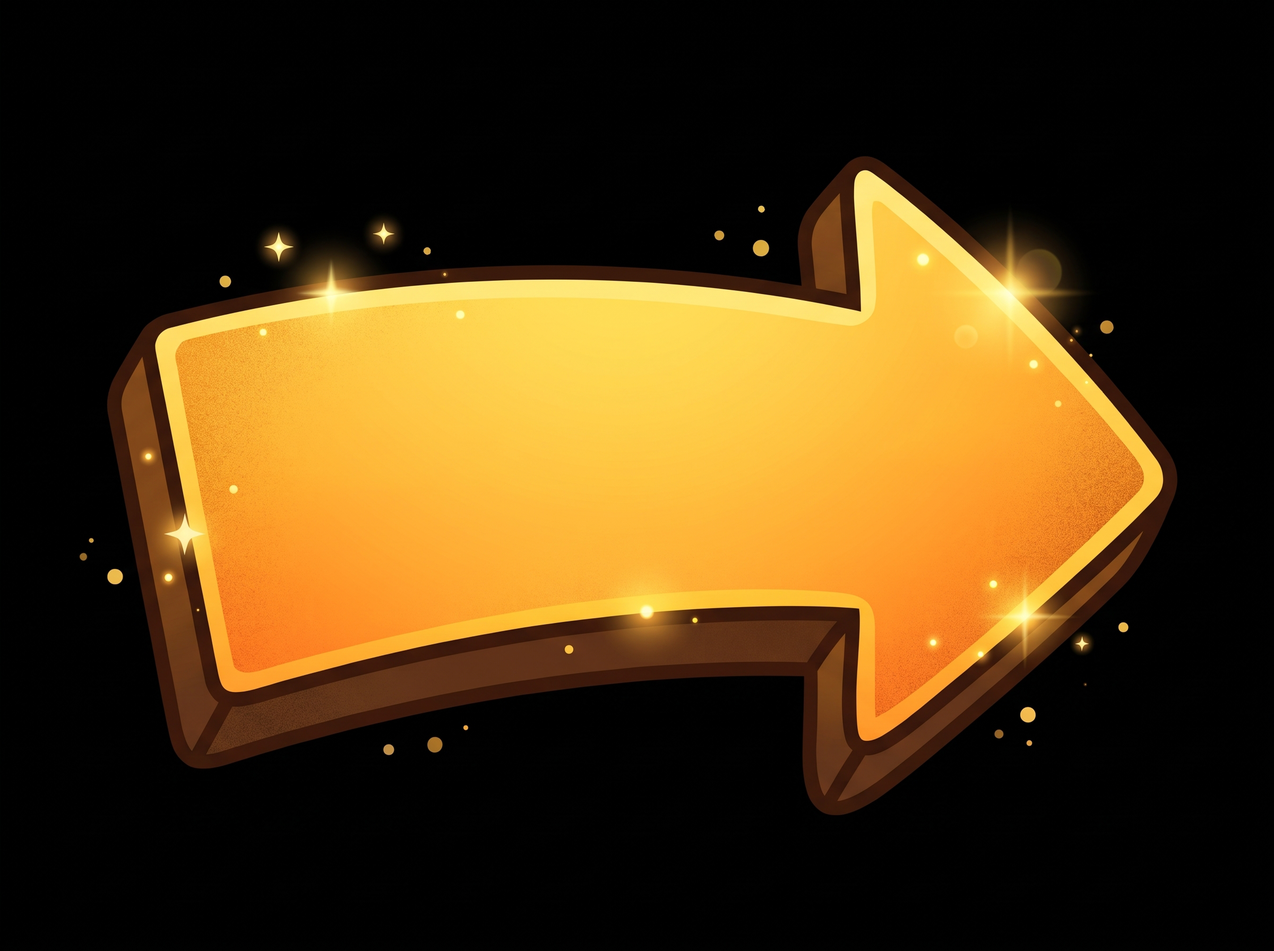
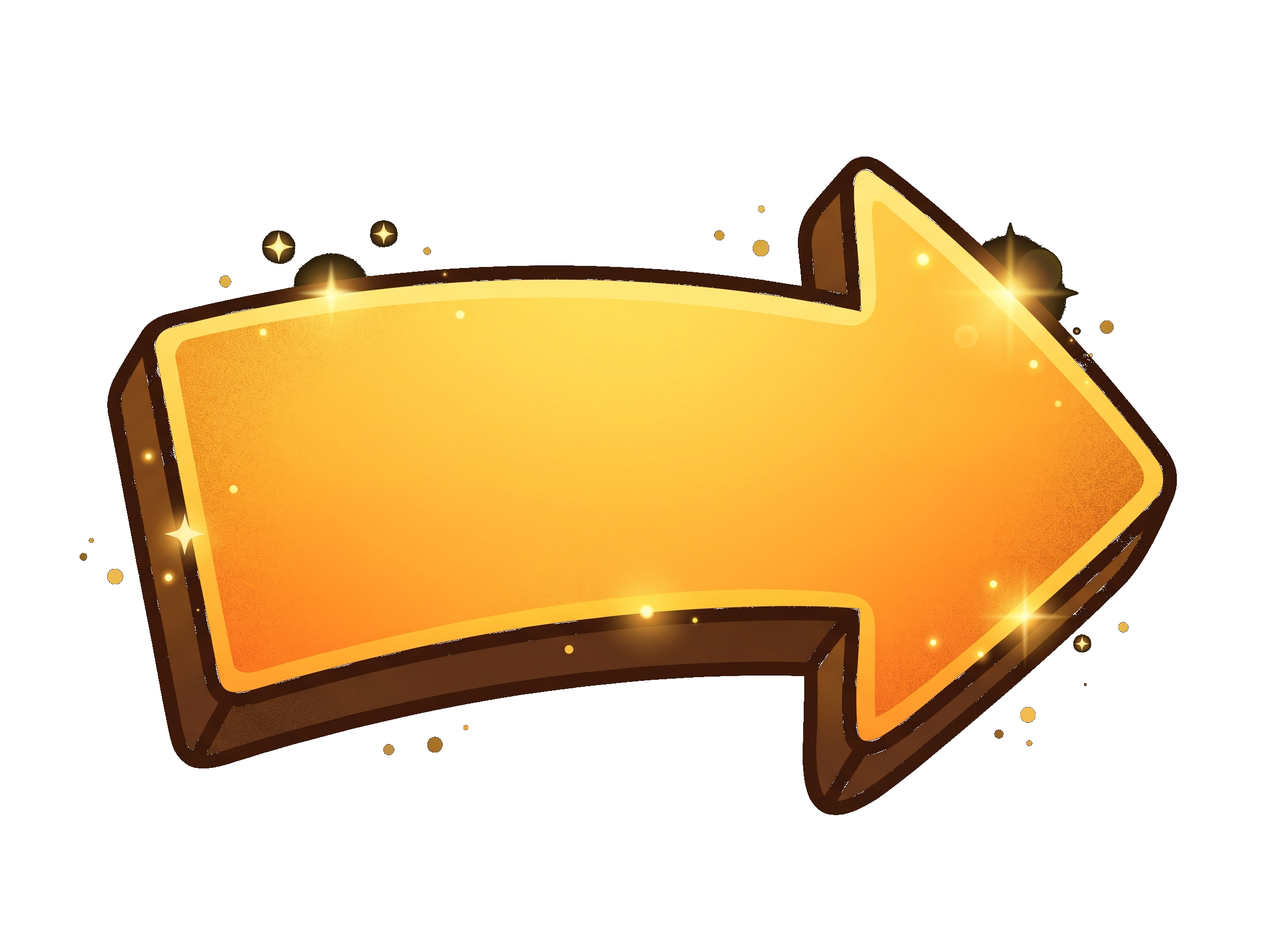
Add files via upload

diff --git a/index.html b/index.html
@@ -33,54 +33,54 @@
       <section id="location-screen" class="screen hidden" data-location="">
         <div id="objects-layer" class="objects-layer">
           <button id="dog" class="scene-object scene-object--dog" type="button" aria-label="Поговорити з песиком">
-            <img class="character-body park-sprite" src="assets/images/dog-body.png" alt="Песик у парку" draggable="false" />
-            <img class="dog-tongue-layer park-sprite" src="assets/images/dog-tongue.png" alt="" aria-hidden="true" draggable="false" />
+            <img class="character-body park-sprite" src="dog-body.png" alt="Песик у парку" draggable="false" />
+            <img class="dog-tongue-layer park-sprite" src="dog-tongue.png" alt="" aria-hidden="true" draggable="false" />
             <span class="dog-blink-eye dog-blink-eye--left park-sprite" aria-hidden="true"></span>
             <span class="dog-blink-eye dog-blink-eye--right park-sprite" aria-hidden="true"></span>
-            <img class="forest-sprite" src="assets/images/dog.png" alt="Песик у казковому лісі" draggable="false" />
+            <img class="forest-sprite" src="dog.png" alt="Песик у казковому лісі" draggable="false" />
           </button>
           <div id="dog-drop-zone" class="dog-drop-zone scene1-object" aria-hidden="true"></div>
           <button id="girl" class="scene-object scene-object--girl character-breathe-idle" type="button" aria-label="Привітатися з дівчинкою">
-            <img class="character-body park-sprite" src="assets/images/girl-body.png" alt="Усміхнена дівчинка махає рукою" draggable="false" />
-            <img class="character-smile park-sprite" src="assets/images/girl-smile.png" alt="" aria-hidden="true" draggable="false" />
+            <img class="character-body park-sprite" src="girl-body.png" alt="Усміхнена дівчинка махає рукою" draggable="false" />
+            <img class="character-smile park-sprite" src="girl-smile.png" alt="" aria-hidden="true" draggable="false" />
             <span class="wave-arm-pivot park-sprite" style="--pivot-x: 42%; --pivot-y: 33%">
-              <img src="assets/images/girl-arm.png" alt="" aria-hidden="true" draggable="false" />
+              <img src="girl-arm.png" alt="" aria-hidden="true" draggable="false" />
             </span>
-            <img class="forest-sprite" src="assets/images/girl.png" data-hands-up-src="assets/images/girl.png" data-hands-down-src="assets/images/girl_hands_down.png" alt="Дівчинка у казковому лісі" draggable="false" />
+            <img class="forest-sprite" src="girl.png" data-hands-up-src="girl.png" data-hands-down-src="girl_hands_down.png" alt="Дівчинка у казковому лісі" draggable="false" />
           </button>
           <button id="boy" class="scene-object scene-object--boy character-breathe-idle" type="button" aria-label="Привітатися з хлопчиком">
-            <img class="character-body park-sprite" src="assets/images/boy-body.png" alt="Усміхнений хлопчик махає рукою" draggable="false" />
-            <img class="character-smile park-sprite" src="assets/images/boy-smile.png" alt="" aria-hidden="true" draggable="false" />
+            <img class="character-body park-sprite" src="boy-body.png" alt="Усміхнений хлопчик махає рукою" draggable="false" />
+            <img class="character-smile park-sprite" src="boy-smile.png" alt="" aria-hidden="true" draggable="false" />
             <span class="wave-arm-pivot park-sprite" style="--pivot-x: 57.5%; --pivot-y: 36.8%">
-              <img src="assets/images/boy-arm.png" alt="" aria-hidden="true" draggable="false" />
+              <img src="boy-arm.png" alt="" aria-hidden="true" draggable="false" />
             </span>
-            <img class="forest-sprite" src="assets/images/boy.png" data-hands-up-src="assets/images/boy.png" data-hands-down-src="assets/images/boy_hands_down.png" alt="Хлопчик у казковому лісі" draggable="false" />
+            <img class="forest-sprite" src="boy.png" data-hands-up-src="boy.png" data-hands-down-src="boy_hands_down.png" alt="Хлопчик у казковому лісі" draggable="false" />
           </button>
           <button id="scene-ball" class="scene-object scene1-object scene-object--ball" type="button" aria-label="Перетягнути м'ячик до песика">
-            <img src="assets/images/ball.png" alt="Червоний і жовтий м'ячик" draggable="false" />
+            <img src="ball.png" alt="Червоний і жовтий м'ячик" draggable="false" />
           </button>
           <span class="ball-foliage scene1-object" aria-hidden="true"></span>
           <button id="scene-key" class="scene-object scene1-object scene-object--key" type="button" aria-label="Зібрати частину чарівного ключа">
-            <img src="assets/images/key_part_2.png" alt="Золота частина чарівного ключа" draggable="false" />
+            <img src="key_part_2.png" alt="Золота частина чарівного ключа" draggable="false" />
           </button>
 
-          <img id="forest-crown-visual" class="forest-crown-visual forest-object" src="assets/images/forest_tree_crown.png" alt="" aria-hidden="true" draggable="false" />
+          <img id="forest-crown-visual" class="forest-crown-visual forest-object" src="forest_tree_crown.png" alt="" aria-hidden="true" draggable="false" />
           <div id="tree-hollow" class="tree-hollow forest-object" role="region" aria-label="Зона скидання біля дупла дуба"></div>
           <button id="tree-crown" class="tree-crown forest-object" type="button" aria-label="Потрусити крону дуба"></button>
           <button id="squirrel" class="scene-object forest-squirrel forest-object" type="button" aria-label="Білочка біля дупла дуба">
-            <img src="assets/images/squirrel.png" alt="" draggable="false" />
+            <img src="squirrel.png" alt="" draggable="false" />
           </button>
           <button id="forest-nut-1" class="forest-nut forest-object" type="button" aria-label="Горішок на гілці">
-            <img src="assets/images/nut.png" alt="" draggable="false" />
+            <img src="nut.png" alt="" draggable="false" />
           </button>
           <button id="forest-nut-2" class="forest-nut forest-object" type="button" aria-label="Горішок на гілці">
-            <img src="assets/images/nut.png" alt="" draggable="false" />
+            <img src="nut.png" alt="" draggable="false" />
           </button>
           <button id="forest-nut-3" class="forest-nut forest-object" type="button" aria-label="Горішок на гілці">
-            <img src="assets/images/nut.png" alt="" draggable="false" />
+            <img src="nut.png" alt="" draggable="false" />
           </button>
           <button id="forest-key" class="forest-key forest-object" type="button" aria-label="Зібрати другу частину чарівного ключа" hidden>
-            <img src="assets/images/key_part_2.png" alt="Друга частина чарівного ключа" draggable="false" />
+            <img src="key_part_2.png" alt="Друга частина чарівного ключа" draggable="false" />
           </button>
 
           <div id="scene-cave" class="cave-scene" aria-label="Кристалічна печера">
@@ -91,8 +91,8 @@
               <span></span><span></span><span></span><span></span>
             </div>
             <div id="cave-torch" class="cave-torch" role="button" tabindex="0" aria-label="Смолоскип" aria-pressed="false">
-              <img src="assets/images/torch.png" class="torch-stick-img" alt="Смолоскип" draggable="false" />
-              <img src="assets/images/fire.png" class="torch-fire-img" id="cave-torch-fire" hidden alt="Вогонь" draggable="false" />
+              <img src="torch.png" class="torch-stick-img" alt="Смолоскип" draggable="false" />
+              <img src="fire.png" class="torch-fire-img" id="cave-torch-fire" hidden alt="Вогонь" draggable="false" />
             </div>
             <div class="wall-crystals" aria-label="Кристали, сховані в стінах печери">
               <span class="cave-niche" data-shape="circle" aria-hidden="true"></span>
@@ -100,33 +100,33 @@
               <span class="cave-niche" data-shape="diamond" aria-hidden="true"></span>
               <span class="cave-niche" data-shape="hexagon" aria-hidden="true"></span>
               <button class="cave-crystal" data-shape="circle" type="button" aria-label="Витягнути червоний круглий кристал зі стіни">
-                <img src="assets/images/crystal_circle.png" alt="" aria-hidden="true" draggable="false" />
+                <img src="crystal_circle.png" alt="" aria-hidden="true" draggable="false" />
               </button>
               <button class="cave-crystal" data-shape="diamond" type="button" aria-label="Витягнути синій ромб зі стіни">
-                <img src="assets/images/crystal_square.png" alt="" aria-hidden="true" draggable="false" />
+                <img src="crystal_square.png" alt="" aria-hidden="true" draggable="false" />
               </button>
               <button class="cave-crystal" data-shape="triangle" type="button" aria-label="Витягнути зелений трикутний кристал зі стіни">
-                <img src="assets/images/crystal_triangle.png" alt="" aria-hidden="true" draggable="false" />
+                <img src="crystal_triangle.png" alt="" aria-hidden="true" draggable="false" />
               </button>
               <button class="cave-crystal" data-shape="hexagon" type="button" aria-label="Витягнути фіолетовий шестикутний кристал зі стіни">
-                <img src="assets/images/crystal_polygon.png" alt="" aria-hidden="true" draggable="false" />
+                <img src="crystal_polygon.png" alt="" aria-hidden="true" draggable="false" />
               </button>
             </div>
             <div class="cave-puzzle" aria-label="Чотири гнізда вівтаря">
               <button class="cave-socket" data-shape="circle" data-accept-shape="circle" type="button" aria-label="Ліве кругле гніздо для червоного кристала">
-                <img src="assets/images/crystal_circle.png" alt="" hidden />
+                <img src="crystal_circle.png" alt="" hidden />
               </button>
               <button class="cave-socket" data-shape="triangle" data-accept-shape="triangle" type="button" aria-label="Нижнє ліве трикутне гніздо для зеленого кристала">
-                <img src="assets/images/crystal_triangle.png" alt="" hidden />
+                <img src="crystal_triangle.png" alt="" hidden />
               </button>
               <button class="cave-socket" data-shape="diamond" data-accept-shape="diamond" type="button" aria-label="Верхнє праве ромбоподібне гніздо для синього кристала">
-                <img src="assets/images/crystal_square.png" alt="" hidden />
+                <img src="crystal_square.png" alt="" hidden />
               </button>
               <button class="cave-socket" data-shape="hexagon" data-accept-shape="hexagon" type="button" aria-label="Нижнє праве шестикутне гніздо для фіолетового кристала">
-                <img src="assets/images/crystal_polygon.png" alt="" hidden />
+                <img src="crystal_polygon.png" alt="" hidden />
               </button>
               <button id="cave-key" class="cave-key" type="button" aria-label="Взяти частину ключа" hidden>
-                <img src="assets/images/key_part_2.png" alt="Третя частина магічного ключа" draggable="false" />
+                <img src="key_part_2.png" alt="Третя частина магічного ключа" draggable="false" />
               </button>
             </div>
           </div>
@@ -135,18 +135,18 @@
           <div id="scene-river" class="river-scene" aria-label="Гірська річка">
             <div class="river-characters river-characters--left" aria-label="Діти на лівому березі">
               <div class="river-character-target river-character-target--girl girl" role="button" tabindex="0" aria-label="Дівчинка на березі">
-                <img class="river-character river-character--girl character-breathe-idle" src="assets/images/girl_hands_down.png" alt="Дівчинка на березі" draggable="false" />
+                <img class="river-character river-character--girl character-breathe-idle" src="girl_hands_down.png" alt="Дівчинка на березі" draggable="false" />
               </div>
               <div class="river-character-target river-character-target--boy boy" role="button" tabindex="0" aria-label="Хлопчик на березі">
-                <img class="river-character river-character--boy character-breathe-idle" src="assets/images/boy_hands_down.png" alt="Хлопчик на березі" draggable="false" />
+                <img class="river-character river-character--boy character-breathe-idle" src="boy_hands_down.png" alt="Хлопчик на березі" draggable="false" />
               </div>
             </div>
             <div class="river-characters river-characters--right" aria-label="Діти на правому березі">
               <div class="river-character-target river-character-target--girl girl" role="button" tabindex="0" aria-label="Дівчинка на правому березі" hidden>
-                <img class="river-character river-character--girl character-breathe-idle" src="assets/images/girl_hands_down.png" alt="Дівчинка на правому березі" draggable="false" />
+                <img class="river-character river-character--girl character-breathe-idle" src="girl_hands_down.png" alt="Дівчинка на правому березі" draggable="false" />
               </div>
               <div class="river-character-target river-character-target--boy boy" role="button" tabindex="0" aria-label="Хлопчик на правому березі" hidden>
-                <img class="river-character river-character--boy character-breathe-idle" src="assets/images/boy_hands_down.png" alt="Хлопчик на правому березі" draggable="false" />
+                <img class="river-character river-character--boy character-breathe-idle" src="boy_hands_down.png" alt="Хлопчик на правому березі" draggable="false" />
               </div>
             </div>
             <div class="river-equipment" aria-label="Спорядження для сплаву">
@@ -155,49 +155,49 @@
               <p class="river-equipment-progress" aria-live="polite">Жилети: 0/2 · каски: 0/2 · весла: 0/2</p>
               <div class="river-equipment-grid">
                 <button class="river-equipment-item" data-equipment="vest-1" type="button" aria-label="Перший жилет">
-                  <img src="assets/images/life_vest.png" alt="" aria-hidden="true" draggable="false" />
+                  <img src="life_vest.png" alt="" aria-hidden="true" draggable="false" />
                 </button>
                 <button class="river-equipment-item" data-equipment="vest-2" type="button" aria-label="Другий жилет">
-                  <img src="assets/images/life_vest.png" alt="" aria-hidden="true" draggable="false" />
+                  <img src="life_vest.png" alt="" aria-hidden="true" draggable="false" />
                 </button>
                 <button class="river-equipment-item" data-equipment="helmet-1" type="button" aria-label="Перша каска">
-                  <img src="assets/images/helmet_girl.png" alt="" aria-hidden="true" draggable="false" />
+                  <img src="helmet_girl.png" alt="" aria-hidden="true" draggable="false" />
                 </button>
                 <button class="river-equipment-item" data-equipment="helmet-2" type="button" aria-label="Друга каска">
-                  <img src="assets/images/helmet_boy.png" alt="" aria-hidden="true" draggable="false" />
+                  <img src="helmet_boy.png" alt="" aria-hidden="true" draggable="false" />
                 </button>
                 <button class="river-equipment-item" data-equipment="paddle-1" type="button" aria-label="Перше весло">
-                  <img src="assets/images/oar_paddle.png" alt="" aria-hidden="true" draggable="false" />
+                  <img src="oar_paddle.png" alt="" aria-hidden="true" draggable="false" />
                 </button>
                 <button class="river-equipment-item" data-equipment="paddle-2" type="button" aria-label="Друге весло">
-                  <img src="assets/images/oar_paddle.png" alt="" aria-hidden="true" draggable="false" />
+                  <img src="oar_paddle.png" alt="" aria-hidden="true" draggable="false" />
                 </button>
               </div>
             </div>
             <div id="river-raft" class="river-raft" aria-label="Човен">
-              <img class="river-raft-hull" src="assets/images/Gemini_boat.png" alt="" aria-hidden="true" draggable="false" />
+              <img class="river-raft-hull" src="Gemini_boat.png" alt="" aria-hidden="true" draggable="false" />
               <div class="river-raft-storage" aria-label="Спорядження у човні"></div>
               <div class="river-rider river-rider--girl" hidden aria-hidden="true">
-                <img src="assets/images/girl_sitting_boat.png" alt="" draggable="false" />
+                <img src="girl_sitting_boat.png" alt="" draggable="false" />
               </div>
               <div class="river-rider river-rider--boy" hidden aria-hidden="true">
-                <img src="assets/images/boy_sitting_boat.png" alt="" draggable="false" />
+                <img src="boy_sitting_boat.png" alt="" draggable="false" />
               </div>
             </div>
             <button id="key-part-4" class="river-key" type="button" aria-label="Четверта частина ключа на протилежному березі" disabled hidden>
-              <img src="assets/images/key_part_2.png" alt="Четверта частина магічного ключа" draggable="false" />
+              <img src="key_part_2.png" alt="Четверта частина магічного ключа" draggable="false" />
             </button>
           </div>
           <div id="scene-crossing" class="scene5-scene" data-signal="red" aria-label="Пішохідний перехід">
             <button class="scene5-character scene5-character--girl" type="button" aria-label="Дівчинка біля пішохідного переходу" draggable="false">
-              <img class="character-breathe-idle" src="assets/images/girl_hands_down.png" alt="" draggable="false" />
+              <img class="character-breathe-idle" src="girl_hands_down.png" alt="" draggable="false" />
             </button>
             <button class="scene5-character scene5-character--boy" type="button" aria-label="Хлопчик біля пішохідного переходу" draggable="false">
-              <img class="character-breathe-idle" src="assets/images/boy_hands_down.png" alt="" draggable="false" />
+              <img class="character-breathe-idle" src="boy_hands_down.png" alt="" draggable="false" />
             </button>
             <div id="scene5-destination" class="scene5-destination" aria-hidden="true"></div>
             <button id="scene5-key" class="scene5-key" type="button" aria-label="Взяти п'яту частину магічного ключа" disabled>
-              <img src="assets/images/key_part_1.png" alt="П'ята частина магічного ключа" draggable="false" />
+              <img src="key_part_1.png" alt="П'ята частина магічного ключа" draggable="false" />
             </button>
             <span class="scene5-lamp scene5-lamp--red" aria-hidden="true"></span>
             <span class="scene5-lamp scene5-lamp--green" aria-hidden="true"></span>
@@ -213,19 +213,19 @@
             </div>
             <ol class="key-slots" aria-label="Зібрані частини ключа">
               <li id="key-slot-1" class="key-slot" aria-label="Перша частина ключа">
-                <img id="key-slot-image" src="assets/images/key_part_2.png" alt="Перша частина ключа" hidden />
+                <img id="key-slot-image" src="key_part_2.png" alt="Перша частина ключа" hidden />
               </li>
               <li id="key-slot-2" class="key-slot" aria-label="Друга частина ключа">
-                <img id="key-slot-image-2" src="assets/images/key_part_2.png" alt="Друга частина ключа" hidden />
+                <img id="key-slot-image-2" src="key_part_2.png" alt="Друга частина ключа" hidden />
               </li>
               <li id="key-slot-3" class="key-slot" aria-label="Третя частина ключа">
-                <img id="key-slot-image-3" src="assets/images/key_part_2.png" alt="Третя частина ключа" hidden />
+                <img id="key-slot-image-3" src="key_part_2.png" alt="Третя частина ключа" hidden />
               </li>
               <li id="key-slot-4" class="key-slot" aria-label="Четверта частина ключа">
-                <img id="key-slot-image-4" src="assets/images/key_part_2.png" alt="Четверта частина ключа" hidden />
+                <img id="key-slot-image-4" src="key_part_2.png" alt="Четверта частина ключа" hidden />
               </li>
               <li id="key-slot-5" class="key-slot" aria-label="П'ята частина ключа">
-                <img id="key-slot-image-5" src="assets/images/key_part_1.png" alt="П'ята частина ключа" hidden />
+                <img id="key-slot-image-5" src="key_part_1.png" alt="П'ята частина ключа" hidden />
               </li>
             </ol>
           </section>
@@ -251,7 +251,7 @@
         <div class="panel finale-panel" role="dialog" aria-labelledby="finale-title" aria-modal="true">
           <p class="eyebrow">Фінал</p>
           <h2 id="finale-title">Вітаємо! Усі магічні ключі знайдено!</h2>
-          <img class="finale-key" src="assets/images/key_main.png" alt="Зібраний головний магічний ключ" draggable="false" />
+          <img class="finale-key" src="key_main.png" alt="Зібраний головний магічний ключ" draggable="false" />
           <p>П’ять частин знову стали єдиним ключем.</p>
           <button id="btn-restart" class="primary-btn" type="button">Грати знову</button>
           <button id="btn-scene-select" class="secondary-btn" type="button">Вибір сцен</button>

diff --git a/styles.css b/styles.css
@@ -59,7 +59,7 @@ body {
   position: absolute;
   z-index: 1;
   inset: 0;
-  background: center / cover no-repeat url("assets/images/cave_bg_lit.png");
+  background: center / cover no-repeat url("cave_bg_lit.png");
   opacity: 0;
   pointer-events: none;
   transition: opacity 1.4s ease;
@@ -478,7 +478,7 @@ body {
   inset: 0;
   display: none;
   overflow: hidden;
-  background: url("assets/images/river_bg.png") center / cover no-repeat;
+  background: url("river_bg.png") center / cover no-repeat;
   pointer-events: none;
 }
 
@@ -1041,10 +1041,10 @@ body {
   transition: opacity 1.2s ease;
 }
 
-.cave-shard[data-shape="circle"] { background-image: url("assets/images/crystal_circle.png"); }
-.cave-shard[data-shape="diamond"] { background-image: url("assets/images/crystal_square.png"); }
-.cave-shard[data-shape="triangle"] { background-image: url("assets/images/crystal_triangle.png"); }
-.cave-shard[data-shape="hexagon"] { background-image: url("assets/images/crystal_polygon.png"); }
+.cave-shard[data-shape="circle"] { background-image: url("crystal_circle.png"); }
+.cave-shard[data-shape="diamond"] { background-image: url("crystal_square.png"); }
+.cave-shard[data-shape="triangle"] { background-image: url("crystal_triangle.png"); }
+.cave-shard[data-shape="hexagon"] { background-image: url("crystal_polygon.png"); }
 
 #location-screen.is-cave-lit .cave-shard {
   opacity: 0.62;
@@ -1777,7 +1777,7 @@ h2 {
   position: absolute;
   z-index: 5;
   inset: 0;
-  background: url("assets/images/bg_park.png") center / cover no-repeat;
+  background: url("bg_park.png") center / cover no-repeat;
   -webkit-mask-image: radial-gradient(ellipse 5.2% 5.8% at 9% 77%, #000 55%, transparent 100%);
   mask-image: radial-gradient(ellipse 5.2% 5.8% at 9% 77%, #000 55%, transparent 100%);
   pointer-events: none;
@@ -2229,7 +2229,7 @@ h2 {
   position: absolute;
   z-index: -1;
   inset: 0;
-  background: center / 100% 100% no-repeat url("assets/images/arrow/arrow_next.png");
+  background: center / 100% 100% no-repeat url("arrow.png");
   content: "";
   pointer-events: none;
   animation: scene-next-arrow-nudge 1.35s ease-in-out infinite;
@@ -2341,7 +2341,7 @@ h2 {
   position: absolute;
   z-index: 0;
   inset: 0;
-  background: center / cover no-repeat url("assets/images/cutscene_magic_bg.png");
+  background: center / cover no-repeat url("cutscene_magic_bg.png");
 }
 
 .key-synthesis-backdrop::after {
